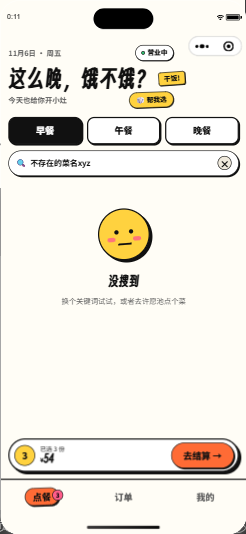
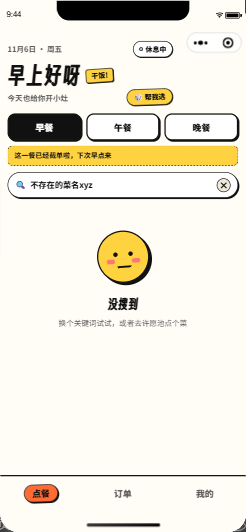
docs: 更新 150 道菜后的截图；截图脚本适配截单状态

diff --git a/scripts/screenshots.js b/scripts/screenshots.js
@@ -12,8 +12,13 @@ const sleep = ms => new Promise(r => setTimeout(r, ms))
     content: ''
   })
 
-  // 清空测试遗留的购物车，再切到午餐拍首页
+  // 清空测试遗留的购物车（先切到午餐，避免早餐已截单导致进不了结算页）
   await mp.switchTab('/pages/home/index')
+  await sleep(1600)
+  await mp.evaluate(function () {
+    const current = getCurrentPages()[getCurrentPages().length - 1]
+    current.onSelectMeal({ currentTarget: { dataset: { meal: 'lunch' } } })
+  })
   await sleep(1600)
   let page = await mp.currentPage()
   let data = await page.data()
@@ -23,11 +28,14 @@ const sleep = ms => new Promise(r => setTimeout(r, ms))
       current.onCheckout()
     })
     await sleep(1400)
-    await mp.evaluate(function () {
-      const current = getCurrentPages()[getCurrentPages().length - 1]
-      current.onClearCart()
-    })
-    await sleep(1400)
+    const checkoutPage = await mp.currentPage()
+    if (checkoutPage.path === 'pages/checkout/index') {
+      await mp.evaluate(function () {
+        const current = getCurrentPages()[getCurrentPages().length - 1]
+        current.onClearCart()
+      })
+      await sleep(1400)
+    }
   }
   await mp.switchTab('/pages/home/index')
   await sleep(1200)
